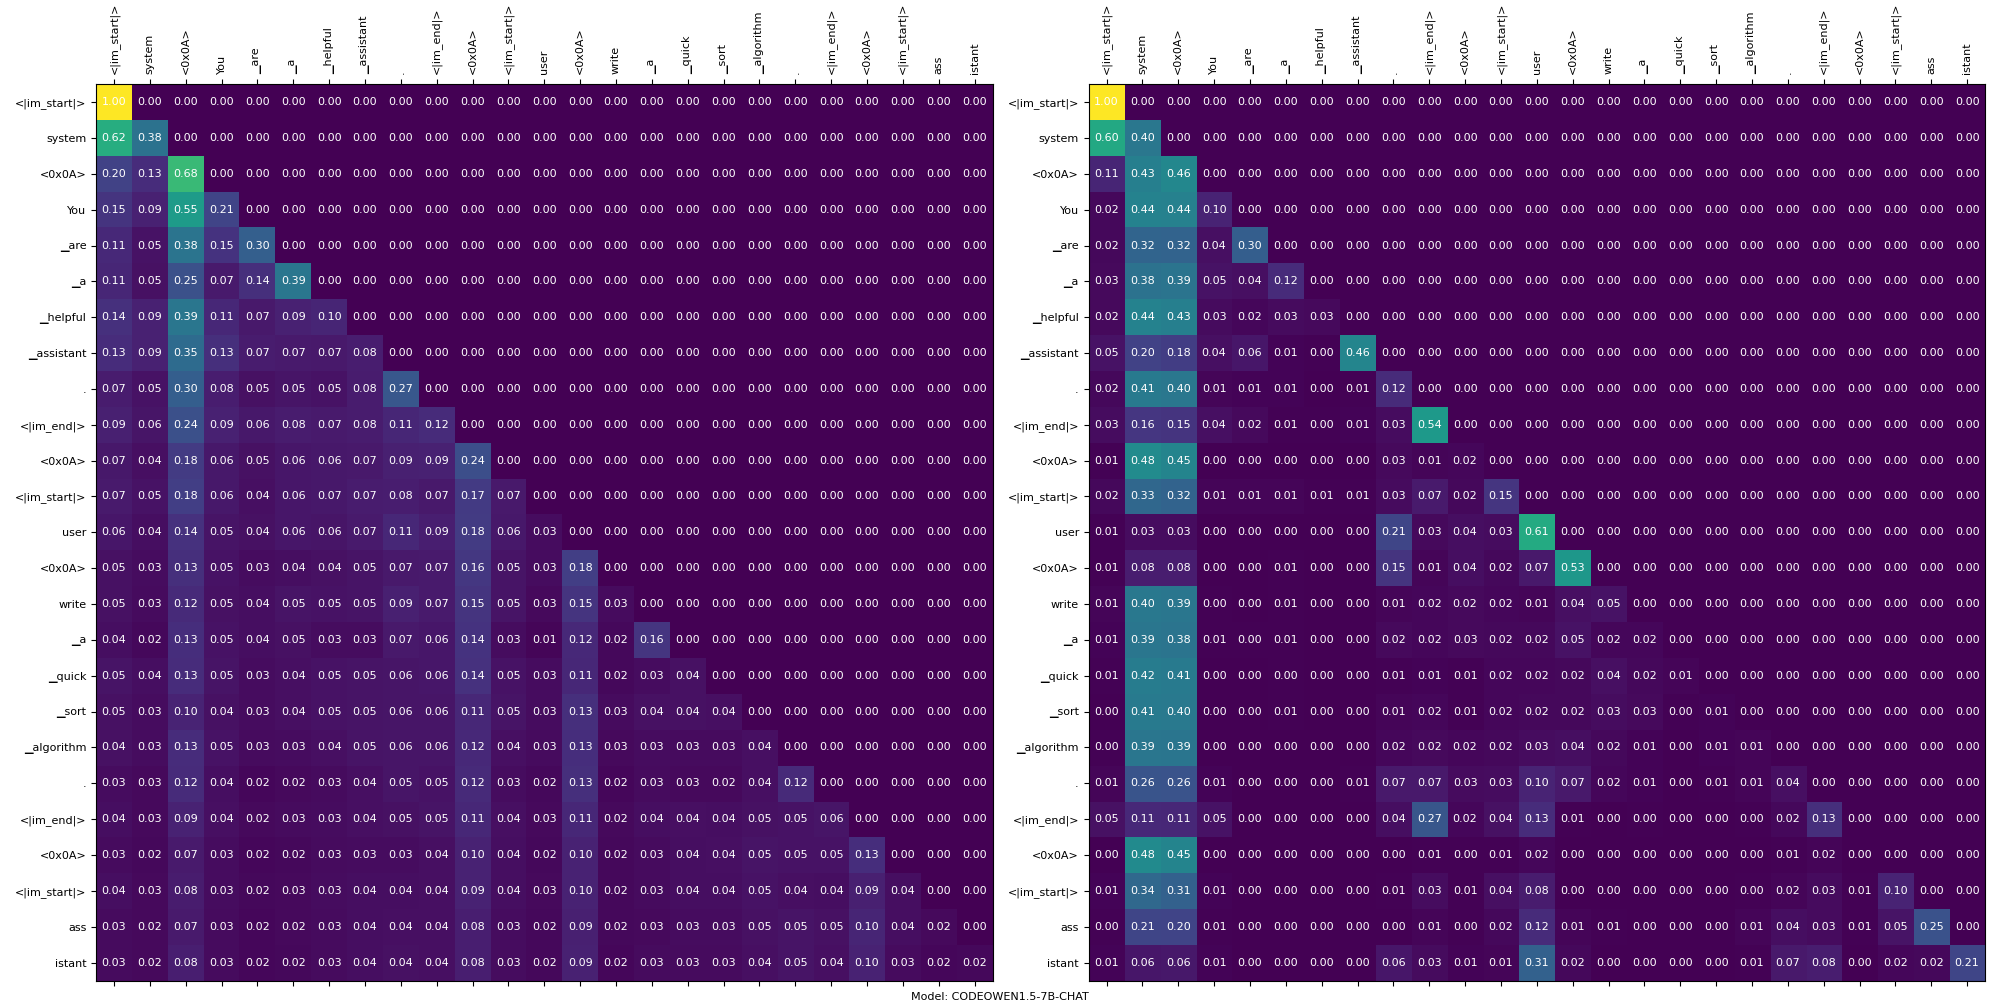
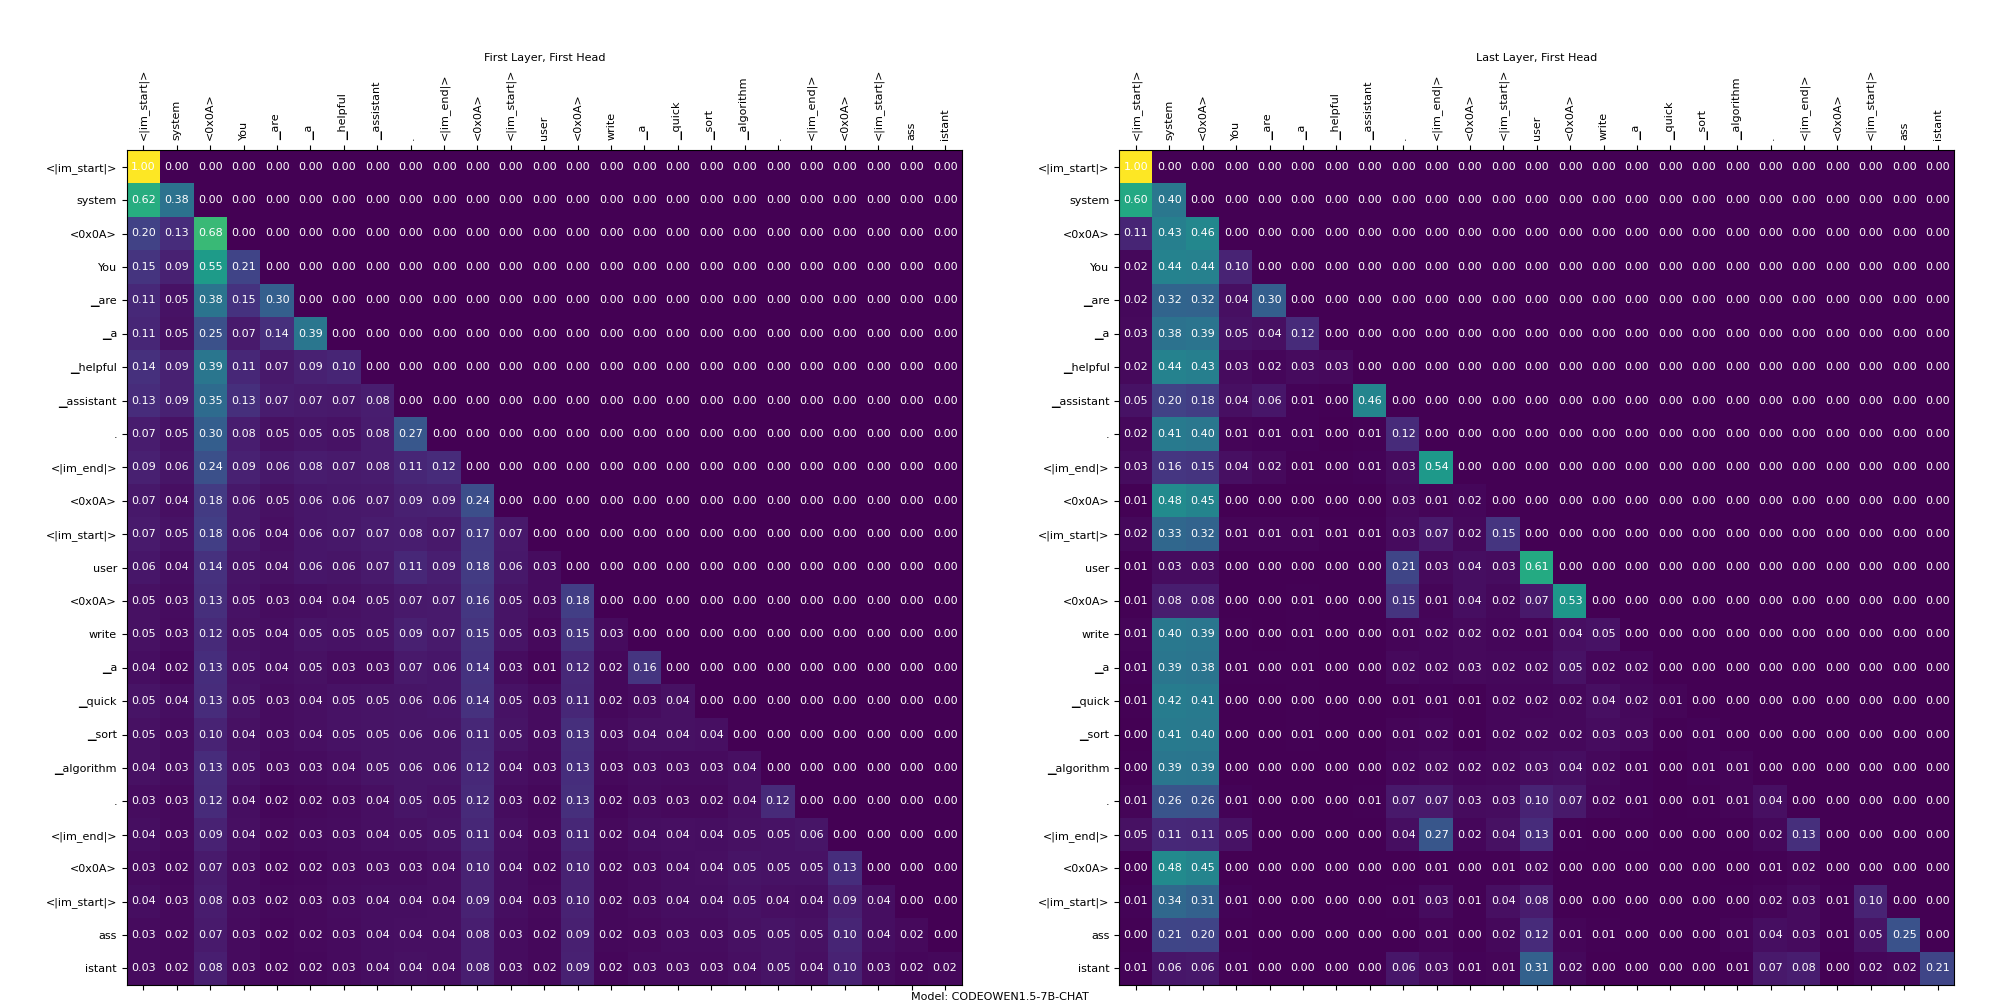
CodeQWen7B

Changed region(s): [[0.031, 0.031, 1.0, 0.992]]

diff --git a/source/ch5-transformer/attention/util.py b/source/ch5-transformer/attention/util.py
@@ -114,25 +114,26 @@ def plot_all_heads_attention_maps(tokenizer, attention, inputs, model_name, figs
             axs[0].set_title(f'Layer {layer + 1}, Head {head + 1}', fontsize=8)
 
             # Set up axes for the attention map
-            axs[0].set_xticks(range(len(tokens)))
-            axs[0].set_yticks(range(len(tokens)))
-            axs[0].set_xticklabels(tokens, rotation=90, fontsize=8)
-            axs[0].set_yticklabels(tokens, fontsize=8)
+            #axs[0].set_xticks(range(len(tokens)))
+            #axs[0].set_yticks(range(len(tokens)))
+            #axs[0].set_xticklabels(tokens, rotation=90, fontsize=8)
+            #axs[0].set_yticklabels(tokens, fontsize=8)
 
             # Annotate each cell with the numerical value for the attention map
-            for i in range(len(tokens)):
-                for j in range(len(tokens)):
-                    axs[0].text(j, i, f'{attention_weights_head_N[i, j]:.2f}', ha='center', va='center', color='white', fontsize=6)
+            if fill_cell:
+                for i in range(len(tokens)):
+                    for j in range(len(tokens)):
+                        axs[0].text(j, i, f'{attention_weights_head_N[i, j]:.2f}', ha='center', va='center', color='white', fontsize=6)
 
             # Plot the attention weights for head N+1
             cax2 = axs[1].matshow(attention_weights_head_N_plus_1, cmap='copper')
             axs[1].set_title(f'Layer {layer + 1}, Head {head + 2}', fontsize=8)
 
             # Set up axes for the attention map
-            axs[1].set_xticks(range(len(tokens)))
-            axs[1].set_yticks(range(len(tokens)))
-            axs[1].set_xticklabels(tokens, rotation=90, fontsize=8)
-            axs[1].set_yticklabels(tokens, fontsize=8)
+            #axs[1].set_xticks(range(len(tokens)))
+            #axs[1].set_yticks(range(len(tokens)))
+            #axs[1].set_xticklabels(tokens, rotation=90, fontsize=8)
+            #axs[1].set_yticklabels(tokens, fontsize=8)
 
             # Annotate each cell with the numerical value for the attention map
             if fill_cell:

diff --git a/source/ch5-transformer/attention/draw_attn_map_qwenchat.py b/source/ch5-transformer/attention/draw_attn_map_qwenchat.py
@@ -53,7 +53,7 @@ outputs = model(input_ids=inputs['input_ids'],
                 use_cache=True)
 attention = outputs.attentions
 #plot_attention_rank(attention, "CodeQWen1.5-7B-Chat", "CodeQWen1.5-7B-Chat_attn_map_rank.png")
-plot_all_heads_attention_maps(tokenizer, attention, inputs, "QWen1.5Chat7B", figsize=24)
+plot_all_heads_attention_maps(tokenizer, attention, inputs, "QWen1.5Chat7B", figsize=24, fill_cell=False)
 
 #plot_attention_map_by_LH(tokenizer, attention, inputs, 30, 1,"CodeQWen1.5-7B-Chat", figsize=32)
 #plot_attention_map_by_LH(tokenizer, attention, inputs, 30, 12,"CodeQWen1.5-7B-Chat", figsize=32)
